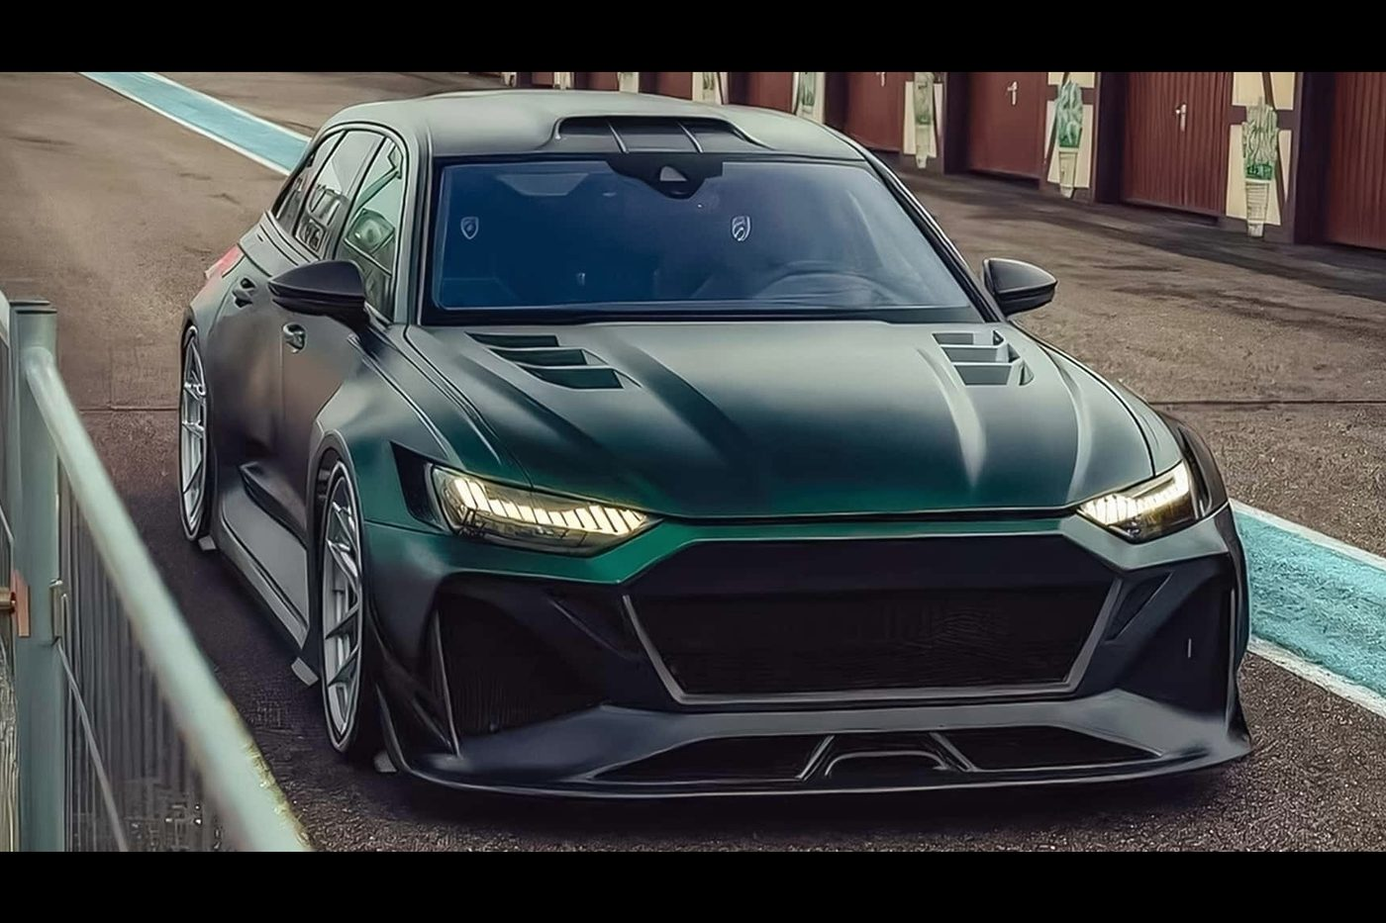
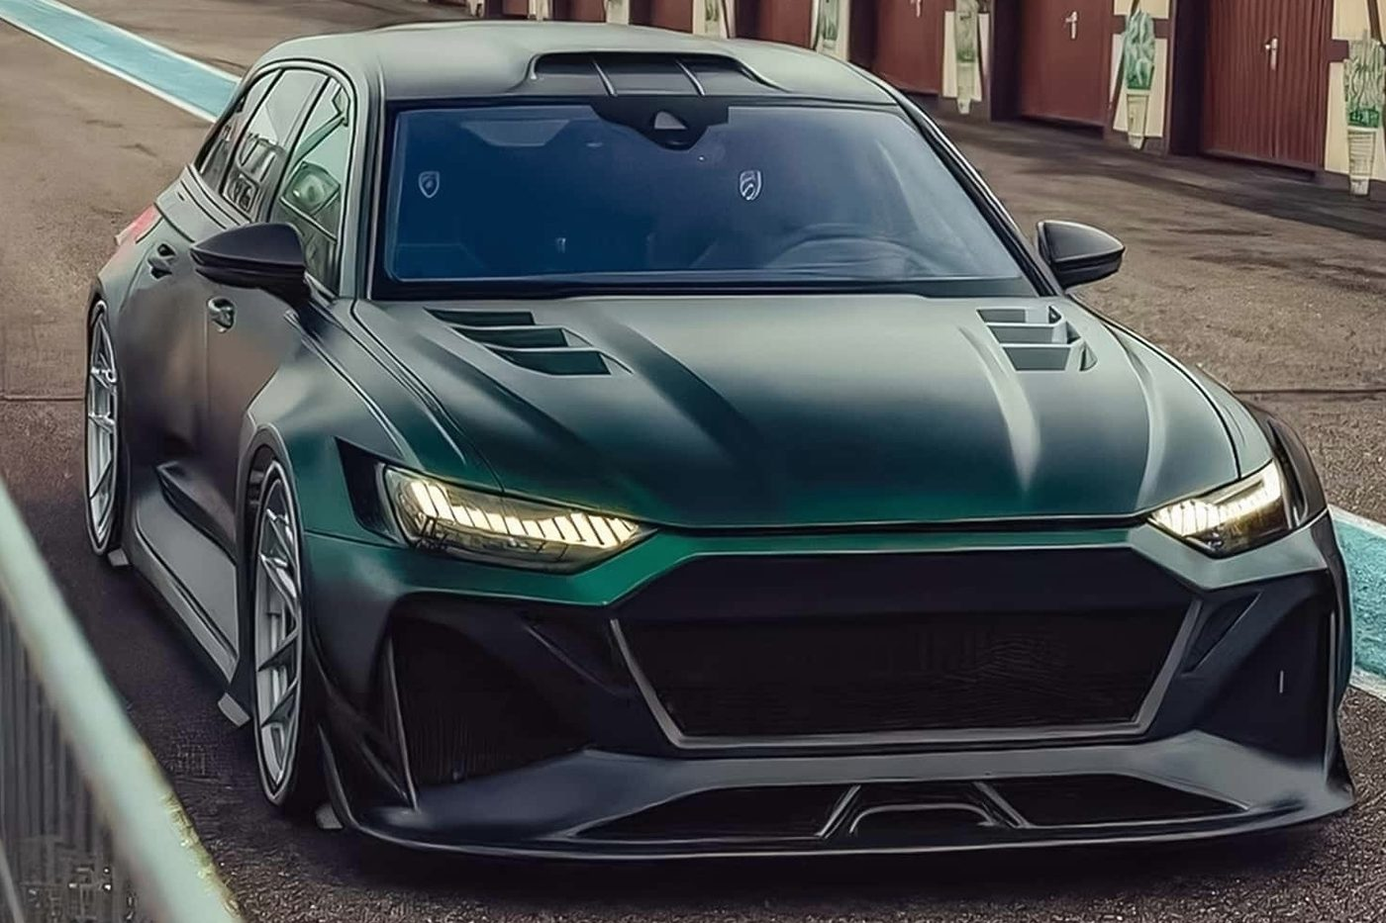
Topbar ohne Telefon/E-Mail/Impressum/Datenschutz, Scroll-Hinweis entfernt, Pangaea-Galeriebild ohne schwarze Ränder (3:2 innerhalb des Originals)

diff --git a/index.html b/index.html
@@ -20,7 +20,7 @@
 <link rel="preconnect" href="https://fonts.gstatic.com" crossorigin>
 <link rel="preload" as="image" href="assets/img/hero-pangaea-1960.jpg" fetchpriority="high">
 <link href="https://fonts.googleapis.com/css2?family=Archivo:wdth,wght@100..125,300..700&display=swap" rel="stylesheet">
-<link rel="stylesheet" href="style.css?v=3">
+<link rel="stylesheet" href="style.css?v=4">
 <script>document.documentElement.classList.add('js')</script>
 </head>
 <body>
@@ -29,16 +29,10 @@
 <header class="nav" id="nav">
   <div class="topbar">
     <div class="topbar__inner">
-      <div class="topbar__contact">
-        <a href="tel:+49841981880"><svg viewBox="0 0 24 24" aria-hidden="true"><path d="M6.6 10.8a15.1 15.1 0 0 0 6.6 6.6l2.2-2.2a1 1 0 0 1 1-.25c1.1.37 2.3.57 3.6.57a1 1 0 0 1 1 1V20a1 1 0 0 1-1 1A17 17 0 0 1 3 4a1 1 0 0 1 1-1h3.5a1 1 0 0 1 1 1c0 1.25.2 2.45.57 3.57a1 1 0 0 1-.25 1L6.6 10.8Z"/></svg><span>+49 841 98188-0</span></a>
-        <a href="mailto:info@mtm-online.de"><svg viewBox="0 0 24 24" aria-hidden="true"><path d="M3 5h18a1 1 0 0 1 1 1v12a1 1 0 0 1-1 1H3a1 1 0 0 1-1-1V6a1 1 0 0 1 1-1Zm1 2.4V17h16V7.4l-8 5.3-8-5.3ZM4.9 7l7.1 4.7L19.1 7H4.9Z"/></svg><span>info@mtm-online.de</span></a>
-      </div>
       <nav class="topbar__links" aria-label="Service">
         <a href="haendler.html">Händler</a>
         <a href="presse.html">Presse</a>
         <a href="newsletter.html">Newsletter</a>
-        <a href="impressum.html">Impressum</a>
-        <a href="datenschutz.html">Datenschutz</a>
       </nav>
       <div class="topbar__side">
         <div class="social social--top"><ul class="social__list"><li><a href="https://www.instagram.com/mtmcars" target="_blank" rel="noopener" aria-label="MTM auf Instagram"><svg viewBox="0 0 24 24" aria-hidden="true"><path d="M12 4.2c2.5 0 2.8 0 3.8.1 2.6.1 3.8 1.3 3.9 3.9.1 1 .1 1.3.1 3.8s0 2.8-.1 3.8c-.1 2.6-1.3 3.8-3.9 3.9-1 .1-1.3.1-3.8.1s-2.8 0-3.8-.1c-2.6-.1-3.8-1.3-3.9-3.9-.1-1-.1-1.3-.1-3.8s0-2.8.1-3.8C4.4 5.6 5.6 4.4 8.2 4.3c1-.1 1.3-.1 3.8-.1ZM12 2C9.3 2 8.9 2 7.9 2.1 4.2 2.2 2.2 4.2 2.1 7.9 2 8.9 2 9.3 2 12s0 3.1.1 4.1c.1 3.7 2.1 5.7 5.8 5.8 1 .1 1.4.1 4.1.1s3.1 0 4.1-.1c3.7-.1 5.7-2.1 5.8-5.8.1-1 .1-1.4.1-4.1s0-3.1-.1-4.1c-.1-3.7-2.1-5.7-5.8-5.8C15.1 2 14.7 2 12 2Zm0 4.9a5.1 5.1 0 1 0 0 10.2 5.1 5.1 0 0 0 0-10.2Zm0 8.4a3.3 3.3 0 1 1 0-6.6 3.3 3.3 0 0 1 0 6.6Zm5.3-9.8a1.2 1.2 0 1 0 0 2.4 1.2 1.2 0 0 0 0-2.4Z"/></svg><span>Instagram</span></a></li><li><a href="https://www.youtube.com/user/mtmgmbh/videos" target="_blank" rel="noopener" aria-label="MTM auf YouTube"><svg viewBox="0 0 24 24" aria-hidden="true"><path d="M21.6 7.2a2.5 2.5 0 0 0-1.8-1.8C18.2 5 12 5 12 5s-6.2 0-7.8.4A2.5 2.5 0 0 0 2.4 7.2 26 26 0 0 0 2 12a26 26 0 0 0 .4 4.8 2.5 2.5 0 0 0 1.8 1.8C5.8 19 12 19 12 19s6.2 0 7.8-.4a2.5 2.5 0 0 0 1.8-1.8A26 26 0 0 0 22 12a26 26 0 0 0-.4-4.8ZM10 15V9l5.2 3L10 15Z"/></svg><span>YouTube</span></a></li><li><a href="https://www.facebook.com/motorentechnikmayer" target="_blank" rel="noopener" aria-label="MTM auf Facebook"><svg viewBox="0 0 24 24" aria-hidden="true"><path d="M14 8.5V6.8c0-.8.5-1.3 1.3-1.3H17V2h-2.6C11.6 2 10.5 4 10.5 6.4v2.1H8V12h2.5v10H14V12h2.7l.5-3.5H14Z"/></svg><span>Facebook</span></a></li></ul></div>
@@ -115,7 +109,6 @@
         <button type="button" role="tab" aria-selected="false" aria-label="Slide 2"><i></i></button>
         <button type="button" role="tab" aria-selected="false" aria-label="Slide 3"><i></i></button>
       </div>
-      <p class="hero__scroll label" aria-hidden="true">Scrollen</p>
     </div>
   </section>
 
@@ -385,6 +378,6 @@
 
 <script src="https://cdnjs.cloudflare.com/ajax/libs/gsap/3.12.5/gsap.min.js"></script>
 <script src="https://cdnjs.cloudflare.com/ajax/libs/gsap/3.12.5/ScrollTrigger.min.js"></script>
-<script src="main.js?v=3"></script>
+<script src="main.js?v=4"></script>
 </body>
 </html>

diff --git a/index-en.html b/index-en.html
@@ -20,7 +20,7 @@
 <link rel="preconnect" href="https://fonts.gstatic.com" crossorigin>
 <link rel="preload" as="image" href="assets/img/hero-pangaea-1960.jpg" fetchpriority="high">
 <link href="https://fonts.googleapis.com/css2?family=Archivo:wdth,wght@100..125,300..700&display=swap" rel="stylesheet">
-<link rel="stylesheet" href="style.css?v=3">
+<link rel="stylesheet" href="style.css?v=4">
 <script>document.documentElement.classList.add('js')</script>
 </head>
 <body>
@@ -29,16 +29,10 @@
 <header class="nav" id="nav">
   <div class="topbar">
     <div class="topbar__inner">
-      <div class="topbar__contact">
-        <a href="tel:+49841981880"><svg viewBox="0 0 24 24" aria-hidden="true"><path d="M6.6 10.8a15.1 15.1 0 0 0 6.6 6.6l2.2-2.2a1 1 0 0 1 1-.25c1.1.37 2.3.57 3.6.57a1 1 0 0 1 1 1V20a1 1 0 0 1-1 1A17 17 0 0 1 3 4a1 1 0 0 1 1-1h3.5a1 1 0 0 1 1 1c0 1.25.2 2.45.57 3.57a1 1 0 0 1-.25 1L6.6 10.8Z"/></svg><span>+49 841 98188-0</span></a>
-        <a href="mailto:info@mtm-online.de"><svg viewBox="0 0 24 24" aria-hidden="true"><path d="M3 5h18a1 1 0 0 1 1 1v12a1 1 0 0 1-1 1H3a1 1 0 0 1-1-1V6a1 1 0 0 1 1-1Zm1 2.4V17h16V7.4l-8 5.3-8-5.3ZM4.9 7l7.1 4.7L19.1 7H4.9Z"/></svg><span>info@mtm-online.de</span></a>
-      </div>
       <nav class="topbar__links" aria-label="Service">
         <a href="haendler.html">Dealers</a>
         <a href="presse.html">Press</a>
         <a href="newsletter.html">Newsletter</a>
-        <a href="impressum.html">Imprint</a>
-        <a href="datenschutz.html">Privacy</a>
       </nav>
       <div class="topbar__side">
         <div class="social social--top"><ul class="social__list"><li><a href="https://www.instagram.com/mtmcars" target="_blank" rel="noopener" aria-label="MTM on Instagram"><svg viewBox="0 0 24 24" aria-hidden="true"><path d="M12 4.2c2.5 0 2.8 0 3.8.1 2.6.1 3.8 1.3 3.9 3.9.1 1 .1 1.3.1 3.8s0 2.8-.1 3.8c-.1 2.6-1.3 3.8-3.9 3.9-1 .1-1.3.1-3.8.1s-2.8 0-3.8-.1c-2.6-.1-3.8-1.3-3.9-3.9-.1-1-.1-1.3-.1-3.8s0-2.8.1-3.8C4.4 5.6 5.6 4.4 8.2 4.3c1-.1 1.3-.1 3.8-.1ZM12 2C9.3 2 8.9 2 7.9 2.1 4.2 2.2 2.2 4.2 2.1 7.9 2 8.9 2 9.3 2 12s0 3.1.1 4.1c.1 3.7 2.1 5.7 5.8 5.8 1 .1 1.4.1 4.1.1s3.1 0 4.1-.1c3.7-.1 5.7-2.1 5.8-5.8.1-1 .1-1.4.1-4.1s0-3.1-.1-4.1c-.1-3.7-2.1-5.7-5.8-5.8C15.1 2 14.7 2 12 2Zm0 4.9a5.1 5.1 0 1 0 0 10.2 5.1 5.1 0 0 0 0-10.2Zm0 8.4a3.3 3.3 0 1 1 0-6.6 3.3 3.3 0 0 1 0 6.6Zm5.3-9.8a1.2 1.2 0 1 0 0 2.4 1.2 1.2 0 0 0 0-2.4Z"/></svg><span>Instagram</span></a></li><li><a href="https://www.youtube.com/user/mtmgmbh/videos" target="_blank" rel="noopener" aria-label="MTM on YouTube"><svg viewBox="0 0 24 24" aria-hidden="true"><path d="M21.6 7.2a2.5 2.5 0 0 0-1.8-1.8C18.2 5 12 5 12 5s-6.2 0-7.8.4A2.5 2.5 0 0 0 2.4 7.2 26 26 0 0 0 2 12a26 26 0 0 0 .4 4.8 2.5 2.5 0 0 0 1.8 1.8C5.8 19 12 19 12 19s6.2 0 7.8-.4a2.5 2.5 0 0 0 1.8-1.8A26 26 0 0 0 22 12a26 26 0 0 0-.4-4.8ZM10 15V9l5.2 3L10 15Z"/></svg><span>YouTube</span></a></li><li><a href="https://www.facebook.com/motorentechnikmayer" target="_blank" rel="noopener" aria-label="MTM on Facebook"><svg viewBox="0 0 24 24" aria-hidden="true"><path d="M14 8.5V6.8c0-.8.5-1.3 1.3-1.3H17V2h-2.6C11.6 2 10.5 4 10.5 6.4v2.1H8V12h2.5v10H14V12h2.7l.5-3.5H14Z"/></svg><span>Facebook</span></a></li></ul></div>
@@ -115,7 +109,6 @@
         <button type="button" role="tab" aria-selected="false" aria-label="Slide 2"><i></i></button>
         <button type="button" role="tab" aria-selected="false" aria-label="Slide 3"><i></i></button>
       </div>
-      <p class="hero__scroll label" aria-hidden="true">Scroll</p>
     </div>
   </section>
 
@@ -385,6 +378,6 @@
 
 <script src="https://cdnjs.cloudflare.com/ajax/libs/gsap/3.12.5/gsap.min.js"></script>
 <script src="https://cdnjs.cloudflare.com/ajax/libs/gsap/3.12.5/ScrollTrigger.min.js"></script>
-<script src="main.js?v=3"></script>
+<script src="main.js?v=4"></script>
 </body>
 </html>

diff --git a/impressum.html b/impressum.html
@@ -12,7 +12,7 @@
 <link rel="preconnect" href="https://fonts.googleapis.com">
 <link rel="preconnect" href="https://fonts.gstatic.com" crossorigin>
 <link href="https://fonts.googleapis.com/css2?family=Archivo:wdth,wght@100..125,300..700&display=swap" rel="stylesheet">
-<link rel="stylesheet" href="style.css?v=3">
+<link rel="stylesheet" href="style.css?v=4">
 <script>document.documentElement.classList.add('js')</script>
 </head>
 <body class="page">
@@ -21,16 +21,10 @@
 <header class="nav nav--static">
   <div class="topbar">
     <div class="topbar__inner">
-      <div class="topbar__contact">
-        <a href="tel:+49841981880"><svg viewBox="0 0 24 24" aria-hidden="true"><path d="M6.6 10.8a15.1 15.1 0 0 0 6.6 6.6l2.2-2.2a1 1 0 0 1 1-.25c1.1.37 2.3.57 3.6.57a1 1 0 0 1 1 1V20a1 1 0 0 1-1 1A17 17 0 0 1 3 4a1 1 0 0 1 1-1h3.5a1 1 0 0 1 1 1c0 1.25.2 2.45.57 3.57a1 1 0 0 1-.25 1L6.6 10.8Z"/></svg><span>+49 841 98188-0</span></a>
-        <a href="mailto:info@mtm-online.de"><svg viewBox="0 0 24 24" aria-hidden="true"><path d="M3 5h18a1 1 0 0 1 1 1v12a1 1 0 0 1-1 1H3a1 1 0 0 1-1-1V6a1 1 0 0 1 1-1Zm1 2.4V17h16V7.4l-8 5.3-8-5.3ZM4.9 7l7.1 4.7L19.1 7H4.9Z"/></svg><span>info@mtm-online.de</span></a>
-      </div>
       <nav class="topbar__links" aria-label="Service">
         <a href="haendler.html">Händler</a>
         <a href="presse.html">Presse</a>
         <a href="newsletter.html">Newsletter</a>
-        <a href="impressum.html" aria-current="page">Impressum</a>
-        <a href="datenschutz.html">Datenschutz</a>
       </nav>
       <div class="topbar__side">
         <div class="social social--top"><ul class="social__list"><li><a href="https://www.instagram.com/mtmcars" target="_blank" rel="noopener" aria-label="MTM auf Instagram"><svg viewBox="0 0 24 24" aria-hidden="true"><path d="M12 4.2c2.5 0 2.8 0 3.8.1 2.6.1 3.8 1.3 3.9 3.9.1 1 .1 1.3.1 3.8s0 2.8-.1 3.8c-.1 2.6-1.3 3.8-3.9 3.9-1 .1-1.3.1-3.8.1s-2.8 0-3.8-.1c-2.6-.1-3.8-1.3-3.9-3.9-.1-1-.1-1.3-.1-3.8s0-2.8.1-3.8C4.4 5.6 5.6 4.4 8.2 4.3c1-.1 1.3-.1 3.8-.1ZM12 2C9.3 2 8.9 2 7.9 2.1 4.2 2.2 2.2 4.2 2.1 7.9 2 8.9 2 9.3 2 12s0 3.1.1 4.1c.1 3.7 2.1 5.7 5.8 5.8 1 .1 1.4.1 4.1.1s3.1 0 4.1-.1c3.7-.1 5.7-2.1 5.8-5.8.1-1 .1-1.4.1-4.1s0-3.1-.1-4.1c-.1-3.7-2.1-5.7-5.8-5.8C15.1 2 14.7 2 12 2Zm0 4.9a5.1 5.1 0 1 0 0 10.2 5.1 5.1 0 0 0 0-10.2Zm0 8.4a3.3 3.3 0 1 1 0-6.6 3.3 3.3 0 0 1 0 6.6Zm5.3-9.8a1.2 1.2 0 1 0 0 2.4 1.2 1.2 0 0 0 0-2.4Z"/></svg><span>Instagram</span></a></li><li><a href="https://www.youtube.com/user/mtmgmbh/videos" target="_blank" rel="noopener" aria-label="MTM auf YouTube"><svg viewBox="0 0 24 24" aria-hidden="true"><path d="M21.6 7.2a2.5 2.5 0 0 0-1.8-1.8C18.2 5 12 5 12 5s-6.2 0-7.8.4A2.5 2.5 0 0 0 2.4 7.2 26 26 0 0 0 2 12a26 26 0 0 0 .4 4.8 2.5 2.5 0 0 0 1.8 1.8C5.8 19 12 19 12 19s6.2 0 7.8-.4a2.5 2.5 0 0 0 1.8-1.8A26 26 0 0 0 22 12a26 26 0 0 0-.4-4.8ZM10 15V9l5.2 3L10 15Z"/></svg><span>YouTube</span></a></li><li><a href="https://www.facebook.com/motorentechnikmayer" target="_blank" rel="noopener" aria-label="MTM auf Facebook"><svg viewBox="0 0 24 24" aria-hidden="true"><path d="M14 8.5V6.8c0-.8.5-1.3 1.3-1.3H17V2h-2.6C11.6 2 10.5 4 10.5 6.4v2.1H8V12h2.5v10H14V12h2.7l.5-3.5H14Z"/></svg><span>Facebook</span></a></li></ul></div>
@@ -103,6 +97,6 @@
     </div>
   </div>
 </footer>
-<script src="main.js?v=3"></script>
+<script src="main.js?v=4"></script>
 </body>
 </html>

diff --git a/haendler.html b/haendler.html
@@ -11,7 +11,7 @@
 <link rel="preconnect" href="https://fonts.googleapis.com">
 <link rel="preconnect" href="https://fonts.gstatic.com" crossorigin>
 <link href="https://fonts.googleapis.com/css2?family=Archivo:wdth,wght@100..125,300..700&display=swap" rel="stylesheet">
-<link rel="stylesheet" href="style.css?v=3">
+<link rel="stylesheet" href="style.css?v=4">
 <script>document.documentElement.classList.add('js')</script>
 </head>
 <body class="page">
@@ -20,16 +20,10 @@
 <header class="nav nav--static">
   <div class="topbar">
     <div class="topbar__inner">
-      <div class="topbar__contact">
-        <a href="tel:+49841981880"><svg viewBox="0 0 24 24" aria-hidden="true"><path d="M6.6 10.8a15.1 15.1 0 0 0 6.6 6.6l2.2-2.2a1 1 0 0 1 1-.25c1.1.37 2.3.57 3.6.57a1 1 0 0 1 1 1V20a1 1 0 0 1-1 1A17 17 0 0 1 3 4a1 1 0 0 1 1-1h3.5a1 1 0 0 1 1 1c0 1.25.2 2.45.57 3.57a1 1 0 0 1-.25 1L6.6 10.8Z"/></svg><span>+49 841 98188-0</span></a>
-        <a href="mailto:info@mtm-online.de"><svg viewBox="0 0 24 24" aria-hidden="true"><path d="M3 5h18a1 1 0 0 1 1 1v12a1 1 0 0 1-1 1H3a1 1 0 0 1-1-1V6a1 1 0 0 1 1-1Zm1 2.4V17h16V7.4l-8 5.3-8-5.3ZM4.9 7l7.1 4.7L19.1 7H4.9Z"/></svg><span>info@mtm-online.de</span></a>
-      </div>
       <nav class="topbar__links" aria-label="Service">
         <a href="haendler.html">Händler</a>
         <a href="presse.html">Presse</a>
         <a href="newsletter.html">Newsletter</a>
-        <a href="impressum.html">Impressum</a>
-        <a href="datenschutz.html">Datenschutz</a>
       </nav>
       <div class="topbar__side">
         <div class="social social--top"><ul class="social__list"><li><a href="https://www.instagram.com/mtmcars" target="_blank" rel="noopener" aria-label="MTM auf Instagram"><svg viewBox="0 0 24 24" aria-hidden="true"><path d="M12 4.2c2.5 0 2.8 0 3.8.1 2.6.1 3.8 1.3 3.9 3.9.1 1 .1 1.3.1 3.8s0 2.8-.1 3.8c-.1 2.6-1.3 3.8-3.9 3.9-1 .1-1.3.1-3.8.1s-2.8 0-3.8-.1c-2.6-.1-3.8-1.3-3.9-3.9-.1-1-.1-1.3-.1-3.8s0-2.8.1-3.8C4.4 5.6 5.6 4.4 8.2 4.3c1-.1 1.3-.1 3.8-.1ZM12 2C9.3 2 8.9 2 7.9 2.1 4.2 2.2 2.2 4.2 2.1 7.9 2 8.9 2 9.3 2 12s0 3.1.1 4.1c.1 3.7 2.1 5.7 5.8 5.8 1 .1 1.4.1 4.1.1s3.1 0 4.1-.1c3.7-.1 5.7-2.1 5.8-5.8.1-1 .1-1.4.1-4.1s0-3.1-.1-4.1c-.1-3.7-2.1-5.7-5.8-5.8C15.1 2 14.7 2 12 2Zm0 4.9a5.1 5.1 0 1 0 0 10.2 5.1 5.1 0 0 0 0-10.2Zm0 8.4a3.3 3.3 0 1 1 0-6.6 3.3 3.3 0 0 1 0 6.6Zm5.3-9.8a1.2 1.2 0 1 0 0 2.4 1.2 1.2 0 0 0 0-2.4Z"/></svg><span>Instagram</span></a></li><li><a href="https://www.youtube.com/user/mtmgmbh/videos" target="_blank" rel="noopener" aria-label="MTM auf YouTube"><svg viewBox="0 0 24 24" aria-hidden="true"><path d="M21.6 7.2a2.5 2.5 0 0 0-1.8-1.8C18.2 5 12 5 12 5s-6.2 0-7.8.4A2.5 2.5 0 0 0 2.4 7.2 26 26 0 0 0 2 12a26 26 0 0 0 .4 4.8 2.5 2.5 0 0 0 1.8 1.8C5.8 19 12 19 12 19s6.2 0 7.8-.4a2.5 2.5 0 0 0 1.8-1.8A26 26 0 0 0 22 12a26 26 0 0 0-.4-4.8ZM10 15V9l5.2 3L10 15Z"/></svg><span>YouTube</span></a></li><li><a href="https://www.facebook.com/motorentechnikmayer" target="_blank" rel="noopener" aria-label="MTM auf Facebook"><svg viewBox="0 0 24 24" aria-hidden="true"><path d="M14 8.5V6.8c0-.8.5-1.3 1.3-1.3H17V2h-2.6C11.6 2 10.5 4 10.5 6.4v2.1H8V12h2.5v10H14V12h2.7l.5-3.5H14Z"/></svg><span>Facebook</span></a></li></ul></div>
@@ -870,6 +864,6 @@
     </div>
   </div>
 </footer>
-<script src="main.js?v=3"></script>
+<script src="main.js?v=4"></script>
 </body>
 </html>

diff --git a/presse.html b/presse.html
@@ -11,7 +11,7 @@
 <link rel="preconnect" href="https://fonts.googleapis.com">
 <link rel="preconnect" href="https://fonts.gstatic.com" crossorigin>
 <link href="https://fonts.googleapis.com/css2?family=Archivo:wdth,wght@100..125,300..700&display=swap" rel="stylesheet">
-<link rel="stylesheet" href="style.css?v=3">
+<link rel="stylesheet" href="style.css?v=4">
 <script>document.documentElement.classList.add('js')</script>
 </head>
 <body class="page">
@@ -20,16 +20,10 @@
 <header class="nav nav--static">
   <div class="topbar">
     <div class="topbar__inner">
-      <div class="topbar__contact">
-        <a href="tel:+49841981880"><svg viewBox="0 0 24 24" aria-hidden="true"><path d="M6.6 10.8a15.1 15.1 0 0 0 6.6 6.6l2.2-2.2a1 1 0 0 1 1-.25c1.1.37 2.3.57 3.6.57a1 1 0 0 1 1 1V20a1 1 0 0 1-1 1A17 17 0 0 1 3 4a1 1 0 0 1 1-1h3.5a1 1 0 0 1 1 1c0 1.25.2 2.45.57 3.57a1 1 0 0 1-.25 1L6.6 10.8Z"/></svg><span>+49 841 98188-0</span></a>
-        <a href="mailto:info@mtm-online.de"><svg viewBox="0 0 24 24" aria-hidden="true"><path d="M3 5h18a1 1 0 0 1 1 1v12a1 1 0 0 1-1 1H3a1 1 0 0 1-1-1V6a1 1 0 0 1 1-1Zm1 2.4V17h16V7.4l-8 5.3-8-5.3ZM4.9 7l7.1 4.7L19.1 7H4.9Z"/></svg><span>info@mtm-online.de</span></a>
-      </div>
       <nav class="topbar__links" aria-label="Service">
         <a href="haendler.html">Händler</a>
         <a href="presse.html">Presse</a>
         <a href="newsletter.html">Newsletter</a>
-        <a href="impressum.html">Impressum</a>
-        <a href="datenschutz.html">Datenschutz</a>
       </nav>
       <div class="topbar__side">
         <div class="social social--top"><ul class="social__list"><li><a href="https://www.instagram.com/mtmcars" target="_blank" rel="noopener" aria-label="MTM auf Instagram"><svg viewBox="0 0 24 24" aria-hidden="true"><path d="M12 4.2c2.5 0 2.8 0 3.8.1 2.6.1 3.8 1.3 3.9 3.9.1 1 .1 1.3.1 3.8s0 2.8-.1 3.8c-.1 2.6-1.3 3.8-3.9 3.9-1 .1-1.3.1-3.8.1s-2.8 0-3.8-.1c-2.6-.1-3.8-1.3-3.9-3.9-.1-1-.1-1.3-.1-3.8s0-2.8.1-3.8C4.4 5.6 5.6 4.4 8.2 4.3c1-.1 1.3-.1 3.8-.1ZM12 2C9.3 2 8.9 2 7.9 2.1 4.2 2.2 2.2 4.2 2.1 7.9 2 8.9 2 9.3 2 12s0 3.1.1 4.1c.1 3.7 2.1 5.7 5.8 5.8 1 .1 1.4.1 4.1.1s3.1 0 4.1-.1c3.7-.1 5.7-2.1 5.8-5.8.1-1 .1-1.4.1-4.1s0-3.1-.1-4.1c-.1-3.7-2.1-5.7-5.8-5.8C15.1 2 14.7 2 12 2Zm0 4.9a5.1 5.1 0 1 0 0 10.2 5.1 5.1 0 0 0 0-10.2Zm0 8.4a3.3 3.3 0 1 1 0-6.6 3.3 3.3 0 0 1 0 6.6Zm5.3-9.8a1.2 1.2 0 1 0 0 2.4 1.2 1.2 0 0 0 0-2.4Z"/></svg><span>Instagram</span></a></li><li><a href="https://www.youtube.com/user/mtmgmbh/videos" target="_blank" rel="noopener" aria-label="MTM auf YouTube"><svg viewBox="0 0 24 24" aria-hidden="true"><path d="M21.6 7.2a2.5 2.5 0 0 0-1.8-1.8C18.2 5 12 5 12 5s-6.2 0-7.8.4A2.5 2.5 0 0 0 2.4 7.2 26 26 0 0 0 2 12a26 26 0 0 0 .4 4.8 2.5 2.5 0 0 0 1.8 1.8C5.8 19 12 19 12 19s6.2 0 7.8-.4a2.5 2.5 0 0 0 1.8-1.8A26 26 0 0 0 22 12a26 26 0 0 0-.4-4.8ZM10 15V9l5.2 3L10 15Z"/></svg><span>YouTube</span></a></li><li><a href="https://www.facebook.com/motorentechnikmayer" target="_blank" rel="noopener" aria-label="MTM auf Facebook"><svg viewBox="0 0 24 24" aria-hidden="true"><path d="M14 8.5V6.8c0-.8.5-1.3 1.3-1.3H17V2h-2.6C11.6 2 10.5 4 10.5 6.4v2.1H8V12h2.5v10H14V12h2.7l.5-3.5H14Z"/></svg><span>Facebook</span></a></li></ul></div>
@@ -126,6 +120,6 @@
     </div>
   </div>
 </footer>
-<script src="main.js?v=3"></script>
+<script src="main.js?v=4"></script>
 </body>
 </html>

diff --git a/newsletter.html b/newsletter.html
@@ -11,7 +11,7 @@
 <link rel="preconnect" href="https://fonts.googleapis.com">
 <link rel="preconnect" href="https://fonts.gstatic.com" crossorigin>
 <link href="https://fonts.googleapis.com/css2?family=Archivo:wdth,wght@100..125,300..700&display=swap" rel="stylesheet">
-<link rel="stylesheet" href="style.css?v=3">
+<link rel="stylesheet" href="style.css?v=4">
 <script>document.documentElement.classList.add('js')</script>
 </head>
 <body class="page">
@@ -20,16 +20,10 @@
 <header class="nav nav--static">
   <div class="topbar">
     <div class="topbar__inner">
-      <div class="topbar__contact">
-        <a href="tel:+49841981880"><svg viewBox="0 0 24 24" aria-hidden="true"><path d="M6.6 10.8a15.1 15.1 0 0 0 6.6 6.6l2.2-2.2a1 1 0 0 1 1-.25c1.1.37 2.3.57 3.6.57a1 1 0 0 1 1 1V20a1 1 0 0 1-1 1A17 17 0 0 1 3 4a1 1 0 0 1 1-1h3.5a1 1 0 0 1 1 1c0 1.25.2 2.45.57 3.57a1 1 0 0 1-.25 1L6.6 10.8Z"/></svg><span>+49 841 98188-0</span></a>
-        <a href="mailto:info@mtm-online.de"><svg viewBox="0 0 24 24" aria-hidden="true"><path d="M3 5h18a1 1 0 0 1 1 1v12a1 1 0 0 1-1 1H3a1 1 0 0 1-1-1V6a1 1 0 0 1 1-1Zm1 2.4V17h16V7.4l-8 5.3-8-5.3ZM4.9 7l7.1 4.7L19.1 7H4.9Z"/></svg><span>info@mtm-online.de</span></a>
-      </div>
       <nav class="topbar__links" aria-label="Service">
         <a href="haendler.html">Händler</a>
         <a href="presse.html">Presse</a>
         <a href="newsletter.html">Newsletter</a>
-        <a href="impressum.html">Impressum</a>
-        <a href="datenschutz.html">Datenschutz</a>
       </nav>
       <div class="topbar__side">
         <div class="social social--top"><ul class="social__list"><li><a href="https://www.instagram.com/mtmcars" target="_blank" rel="noopener" aria-label="MTM auf Instagram"><svg viewBox="0 0 24 24" aria-hidden="true"><path d="M12 4.2c2.5 0 2.8 0 3.8.1 2.6.1 3.8 1.3 3.9 3.9.1 1 .1 1.3.1 3.8s0 2.8-.1 3.8c-.1 2.6-1.3 3.8-3.9 3.9-1 .1-1.3.1-3.8.1s-2.8 0-3.8-.1c-2.6-.1-3.8-1.3-3.9-3.9-.1-1-.1-1.3-.1-3.8s0-2.8.1-3.8C4.4 5.6 5.6 4.4 8.2 4.3c1-.1 1.3-.1 3.8-.1ZM12 2C9.3 2 8.9 2 7.9 2.1 4.2 2.2 2.2 4.2 2.1 7.9 2 8.9 2 9.3 2 12s0 3.1.1 4.1c.1 3.7 2.1 5.7 5.8 5.8 1 .1 1.4.1 4.1.1s3.1 0 4.1-.1c3.7-.1 5.7-2.1 5.8-5.8.1-1 .1-1.4.1-4.1s0-3.1-.1-4.1c-.1-3.7-2.1-5.7-5.8-5.8C15.1 2 14.7 2 12 2Zm0 4.9a5.1 5.1 0 1 0 0 10.2 5.1 5.1 0 0 0 0-10.2Zm0 8.4a3.3 3.3 0 1 1 0-6.6 3.3 3.3 0 0 1 0 6.6Zm5.3-9.8a1.2 1.2 0 1 0 0 2.4 1.2 1.2 0 0 0 0-2.4Z"/></svg><span>Instagram</span></a></li><li><a href="https://www.youtube.com/user/mtmgmbh/videos" target="_blank" rel="noopener" aria-label="MTM auf YouTube"><svg viewBox="0 0 24 24" aria-hidden="true"><path d="M21.6 7.2a2.5 2.5 0 0 0-1.8-1.8C18.2 5 12 5 12 5s-6.2 0-7.8.4A2.5 2.5 0 0 0 2.4 7.2 26 26 0 0 0 2 12a26 26 0 0 0 .4 4.8 2.5 2.5 0 0 0 1.8 1.8C5.8 19 12 19 12 19s6.2 0 7.8-.4a2.5 2.5 0 0 0 1.8-1.8A26 26 0 0 0 22 12a26 26 0 0 0-.4-4.8ZM10 15V9l5.2 3L10 15Z"/></svg><span>YouTube</span></a></li><li><a href="https://www.facebook.com/motorentechnikmayer" target="_blank" rel="noopener" aria-label="MTM auf Facebook"><svg viewBox="0 0 24 24" aria-hidden="true"><path d="M14 8.5V6.8c0-.8.5-1.3 1.3-1.3H17V2h-2.6C11.6 2 10.5 4 10.5 6.4v2.1H8V12h2.5v10H14V12h2.7l.5-3.5H14Z"/></svg><span>Facebook</span></a></li></ul></div>
@@ -96,6 +90,6 @@
     </div>
   </div>
 </footer>
-<script src="main.js?v=3"></script>
+<script src="main.js?v=4"></script>
 </body>
 </html>

diff --git a/datenschutz.html b/datenschutz.html
@@ -11,22 +11,16 @@
 <link rel="preconnect" href="https://fonts.googleapis.com">
 <link rel="preconnect" href="https://fonts.gstatic.com" crossorigin>
 <link href="https://fonts.googleapis.com/css2?family=Archivo:wdth,wght@100..125,300..700&display=swap" rel="stylesheet">
-<link rel="stylesheet" href="style.css?v=3">
+<link rel="stylesheet" href="style.css?v=4">
 </head>
 <body>
 <header class="nav nav--static">
   <div class="topbar">
     <div class="topbar__inner">
-      <div class="topbar__contact">
-        <a href="tel:+49841981880"><svg viewBox="0 0 24 24" aria-hidden="true"><path d="M6.6 10.8a15.1 15.1 0 0 0 6.6 6.6l2.2-2.2a1 1 0 0 1 1-.25c1.1.37 2.3.57 3.6.57a1 1 0 0 1 1 1V20a1 1 0 0 1-1 1A17 17 0 0 1 3 4a1 1 0 0 1 1-1h3.5a1 1 0 0 1 1 1c0 1.25.2 2.45.57 3.57a1 1 0 0 1-.25 1L6.6 10.8Z"/></svg><span>+49 841 98188-0</span></a>
-        <a href="mailto:info@mtm-online.de"><svg viewBox="0 0 24 24" aria-hidden="true"><path d="M3 5h18a1 1 0 0 1 1 1v12a1 1 0 0 1-1 1H3a1 1 0 0 1-1-1V6a1 1 0 0 1 1-1Zm1 2.4V17h16V7.4l-8 5.3-8-5.3ZM4.9 7l7.1 4.7L19.1 7H4.9Z"/></svg><span>info@mtm-online.de</span></a>
-      </div>
       <nav class="topbar__links" aria-label="Service">
         <a href="haendler.html">Händler</a>
         <a href="presse.html">Presse</a>
         <a href="newsletter.html">Newsletter</a>
-        <a href="impressum.html">Impressum</a>
-        <a href="datenschutz.html">Datenschutz</a>
       </nav>
       <div class="topbar__side">
         <div class="social social--top"><ul class="social__list"><li><a href="https://www.instagram.com/mtmcars" target="_blank" rel="noopener" aria-label="MTM auf Instagram"><svg viewBox="0 0 24 24" aria-hidden="true"><path d="M12 4.2c2.5 0 2.8 0 3.8.1 2.6.1 3.8 1.3 3.9 3.9.1 1 .1 1.3.1 3.8s0 2.8-.1 3.8c-.1 2.6-1.3 3.8-3.9 3.9-1 .1-1.3.1-3.8.1s-2.8 0-3.8-.1c-2.6-.1-3.8-1.3-3.9-3.9-.1-1-.1-1.3-.1-3.8s0-2.8.1-3.8C4.4 5.6 5.6 4.4 8.2 4.3c1-.1 1.3-.1 3.8-.1ZM12 2C9.3 2 8.9 2 7.9 2.1 4.2 2.2 2.2 4.2 2.1 7.9 2 8.9 2 9.3 2 12s0 3.1.1 4.1c.1 3.7 2.1 5.7 5.8 5.8 1 .1 1.4.1 4.1.1s3.1 0 4.1-.1c3.7-.1 5.7-2.1 5.8-5.8.1-1 .1-1.4.1-4.1s0-3.1-.1-4.1c-.1-3.7-2.1-5.7-5.8-5.8C15.1 2 14.7 2 12 2Zm0 4.9a5.1 5.1 0 1 0 0 10.2 5.1 5.1 0 0 0 0-10.2Zm0 8.4a3.3 3.3 0 1 1 0-6.6 3.3 3.3 0 0 1 0 6.6Zm5.3-9.8a1.2 1.2 0 1 0 0 2.4 1.2 1.2 0 0 0 0-2.4Z"/></svg><span>Instagram</span></a></li><li><a href="https://www.youtube.com/user/mtmgmbh/videos" target="_blank" rel="noopener" aria-label="MTM auf YouTube"><svg viewBox="0 0 24 24" aria-hidden="true"><path d="M21.6 7.2a2.5 2.5 0 0 0-1.8-1.8C18.2 5 12 5 12 5s-6.2 0-7.8.4A2.5 2.5 0 0 0 2.4 7.2 26 26 0 0 0 2 12a26 26 0 0 0 .4 4.8 2.5 2.5 0 0 0 1.8 1.8C5.8 19 12 19 12 19s6.2 0 7.8-.4a2.5 2.5 0 0 0 1.8-1.8A26 26 0 0 0 22 12a26 26 0 0 0-.4-4.8ZM10 15V9l5.2 3L10 15Z"/></svg><span>YouTube</span></a></li><li><a href="https://www.facebook.com/motorentechnikmayer" target="_blank" rel="noopener" aria-label="MTM auf Facebook"><svg viewBox="0 0 24 24" aria-hidden="true"><path d="M14 8.5V6.8c0-.8.5-1.3 1.3-1.3H17V2h-2.6C11.6 2 10.5 4 10.5 6.4v2.1H8V12h2.5v10H14V12h2.7l.5-3.5H14Z"/></svg><span>Facebook</span></a></li></ul></div>

diff --git a/style.css b/style.css
@@ -428,6 +428,7 @@ body.menu-open{overflow:hidden}
 .topbar{position:relative;font-size:11px;letter-spacing:.14em;text-transform:uppercase;color:var(--ink-2);border-bottom:1px solid var(--line);max-height:44px;overflow:hidden;transition:max-height .4s var(--ease-out),opacity .3s var(--ease-out)}
 .nav.is-scrolled .topbar{max-height:0;opacity:0;border-color:transparent}
 .topbar__inner{width:min(100% - 2*var(--gutter),var(--max));margin-inline:auto;height:44px;display:flex;align-items:center;justify-content:space-between;gap:24px}
+.topbar__links{margin-right:auto}
 .topbar__contact,.topbar__links,.topbar__side,.topbar__lang{display:flex;align-items:center;gap:22px}
 .topbar__contact a{display:inline-flex;align-items:center;gap:8px;letter-spacing:.06em;text-transform:none;font-size:12.5px;color:var(--ink)}
 .topbar__contact svg{width:14px;height:14px;fill:currentColor;opacity:.7}
@@ -442,7 +443,8 @@ body.menu-open{overflow:hidden}
   .topbar__links a:hover,.topbar__lang a:hover{color:var(--ink)}
   .social--top .social__list a:hover{background:transparent;color:var(--ink)}
 }
-@media (max-width:1100px){.topbar__links{display:none}}
+@media (max-width:1100px){.topbar__links{gap:16px}}
+@media (max-width:640px){.topbar__links{gap:12px;font-size:10.5px}.topbar__links a:nth-child(3){display:none}.topbar__side{gap:10px}.social--top .social__list a{width:30px;height:30px}.topbar__lang{margin-left:0}.topbar__lang > *{min-width:30px;height:26px;padding:0 4px}}
 @media (max-width:640px){
   .topbar__contact a span{position:absolute;width:1px;height:1px;overflow:hidden;clip:rect(0 0 0 0)}
   .topbar__contact a{width:34px;height:34px;justify-content:center;border:1px solid var(--line)}
